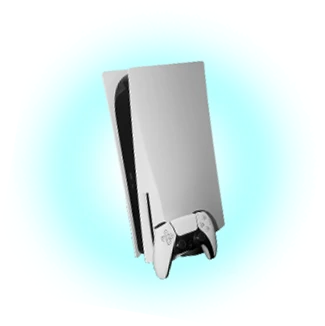
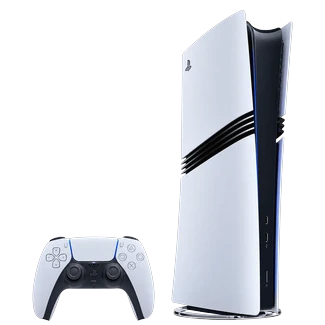
corrige textos perdiste y fuera de órbita

diff --git a/src/components/promo/result-layout.css b/src/components/promo/result-layout.css
@@ -46,15 +46,18 @@
   text-shadow: 0 0 0.33cqw #fff, 0 0 2.3cqw #fff, 0 4px 10px var(--c-deep-blue);
 }
 
-/* PERDISTE y errores de código: mismo relleno dorado, con un contorno rojo
-   grueso por fuera. `paint-order` dibuja primero el trazo y encima el relleno,
-   que es lo que evita que el contorno se coma la letra. */
+/* PERDISTE y errores de código: relleno ROJO con contorno DORADO por fuera.
+   Los colores salen de muestrear el titular del Figma
+   (`recursos/correcciones/perdiste.png`): relleno #e84115, contorno #fcc411.
+   Estaban invertidos —dorado adentro y rojo afuera—, que es lo que se veía
+   distinto del diseño. `paint-order` dibuja primero el trazo y encima el
+   relleno, que es lo que evita que el contorno se coma la letra. */
 .result__title--outline {
-  color: var(--c-gold);
+  color: var(--c-title-red);
   /* El trazo se centra sobre el contorno del glifo y `paint-order` pinta el
      relleno encima, así que sólo se ve la mitad: para el grosor del Figma
      (~9 px) hay que pedir el doble. */
-  -webkit-text-stroke: 0.94cqw #e63505;
+  -webkit-text-stroke: 0.94cqw var(--c-title-outline);
   paint-order: stroke fill;
   text-shadow: 0 0 0.5cqw rgba(255, 255, 255, 0.7), 0 4px 10px var(--c-deep-blue);
 }
@@ -177,8 +180,8 @@
   /* PERDISTE y los dos errores: relleno dorado con contorno rojo. */
   .result-m__title--outline {
     font-size: 8.955cqw;    /* 36 */
-    color: var(--c-gold);
-    -webkit-text-stroke: 0.6cqw #c2270f;
+    color: var(--c-title-red);
+    -webkit-text-stroke: 0.6cqw var(--c-title-outline);
     paint-order: stroke fill;
     text-shadow: 0 0 4cqw rgba(252, 193, 2, 0.75);
   }

diff --git a/src/styles/tokens.css b/src/styles/tokens.css
@@ -53,6 +53,10 @@
   --c-cyan: #09eaff;
   --c-cyan-50: rgba(9, 234, 255, 0.5);
   --c-gold: #fcc102;
+  /* Titular de PERDISTE y de los errores de código: relleno rojo con contorno
+     dorado. Muestreados del Figma, no elegidos a ojo. */
+  --c-title-red: #e84115;
+  --c-title-outline: #fcc411;
   --c-gold-glow: #eac748;
   --c-brown: #883307;
   --c-brown-dark: #581f09;

diff --git a/docs/PREMIOS-2026.md b/docs/PREMIOS-2026.md
@@ -21,7 +21,7 @@ el frontend no descuenta ni decide nada con ese número (ver sección 5).
 
 | # | Nombre visible | Art. | Cant. | ID | Imagen | Origen |
 | --- | --- | --- | --- | --- | --- | --- |
-| 1 | PlayStation 5 | un | 4 | `playstation-5` | `playstation-5.webp` | asset del Figma ⚠ |
+| 1 | PlayStation 5 | un | 4 | `playstation-5` | `playstation-5.webp` | `PLAYSTATION.png` |
 | 2 | Nintendo Switch OLED | una | 4 | `nintendo-switch-oled` | `nintendo-switch-oled.webp` | `Copia de NINTENDO S.png` |
 | 3 | Kit volante + pedales | un | 2 | `kit-volante-pedales` | `kit-volante-pedales.webp` | `Copia de VOLANTE.png` |
 | 4 | Columpio de jardín | un | 3 | `columpio-jardin` | `columpio-jardin.webp` | `Copia de PARQUE.png` |
@@ -151,7 +151,7 @@ Ninguna cambia el producto.
 
 ## 4. Imágenes
 
-18 de los 19 premios tienen foto original en `recursos/premios`. Todas son PNG
+Los 19 premios tienen foto original en `recursos/premios`. Son PNG
 con fondo transparente y un halo cian ya incorporado, coherente con el resto de
 los assets del Figma; el producto ocupa alrededor del 70 % de un lienzo
 cuadrado en todas, así que los 19 pesan visualmente parecido en el carrusel.
@@ -161,13 +161,14 @@ Proceso aplicado: sin recortes ni reencuadres, sólo reducción a 900 px de lado
 
 ### Faltantes
 
-- **PlayStation 5 — no hay foto en `recursos/premios`.** Se usa el asset del
-  Figma (`playstation.webp`, 325 px), que es el producto correcto —PS5 con
-  lectora y DualSense— pero de menor resolución que el resto: en la pantalla
-  GANASTE se muestra a ~445 px y se nota algo blando. **Conviene pedir el
-  original en alta.**
 - **Aro de basketball**: la foto entregada es de 493 px, menor que las demás
-  (4167 px). Se ve correcta, pero es la segunda más baja del set.
+  (4167 px). Se ve correcta, pero es la más baja del set.
+
+> ⚠ **PlayStation — a confirmar con el cliente.** La foto entregada
+> (`recursos/premios/PLAYSTATION.png`) es la **edición Digital**: el frente no
+> tiene ranura de disco. Las hojas `PREMIOS` y `CALENDARIO` del Excel describen
+> el premio como «PS5 **C/ DISCO**», y las bases finales como «PS5 Slim 1TB
+> **con lector**». La imagen y la descripción no coinciden.
 
 ### Duplicadas
 
